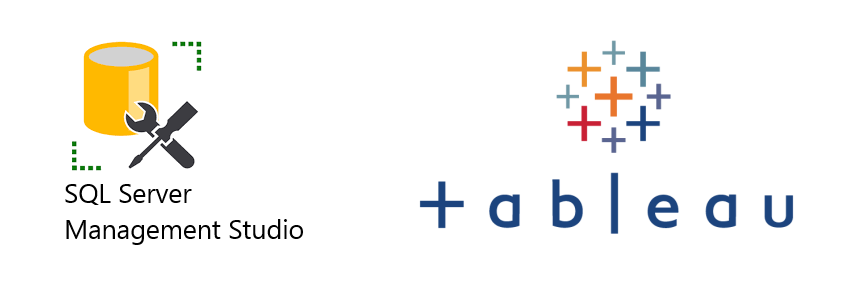
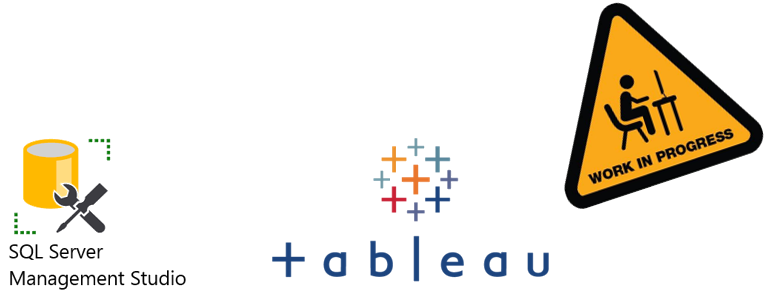
Add files via upload

diff --git a/index.html b/index.html
@@ -25,7 +25,7 @@
 						<li><a href="#about" class="active">About</a></li>
 						<li><a href="#skills">Skills</a></li>
 						<li><a href="#projects">Projects</a></li>
-						<li><a href="#contact">Contact</a></li>	
+						<li><a href="#contact">Contact</a></li>
 					</ul>
 				</nav>
 				<footer>
@@ -83,7 +83,7 @@
 								<div class="features">
 
 									<article>
-										<a href="Web scraping.html" class="image"><img src="images/python logo.png" alt="" /></a>
+										<a href="Web scraping.html" class="image" target="=_blank"><img src="images/python logo.png" alt="" /></a>
 										<div class="inner">
 											<h4><a href="Web scraping.html" target="_blank">Web scraping</a></h4>
 											<p>In this project I scrape data from the website of the romanian store SnowSports.</p>
@@ -99,17 +99,17 @@
 									</article>
 			
 									<article>
-										<a href="#" class="image"><img src="images/test.png" alt="" /></a>
+										<a href="https://public.tableau.com/authoring/1stDashboard_16983092076670/Dashboard1#1" class="image" target="_blank"><img src="images/pqtableau.png" alt="" /></a>
 										<div class="inner">
-											<h4>Tableau dashboards</h4>
-											<p>USA apartments price range. Project created in Tableau showing insights of a booking demands dataset from two hotels.</p>
+											<h4><a href="https://public.tableau.com/authoring/1stDashboard_16983092076670/Dashboard1#1" target="_blank">Surfacing knowledge and exploring relationships between variables.</a></h4>
+											<p>With this analysis I investigate the factors contributing to happiness across the world.</p>
 										</div>
 									</article>
 									<article>
-										<a href="#" class="image"><img src="images/powerq.png" alt="" /></a>
+										<a href="https://public.tableau.com/app/profile/gabriela.tomosoiu/viz/AirBnB_16873331909890/Dashboard1" class="image" target="_blank"><img src="images/SQLtableau.png" alt="" /></a>
 										<div class="inner">
-											<h4>Data cleaning in Power Query and data exploration in Power BI</h4>
-											<p>Power BI inshights.</p>
+											<h4><a href="https://public.tableau.com/app/profile/gabriela.tomosoiu/viz/AirBnB_16873331909890/Dashboard1" target="_blank">Unveiling market dynamics</a> </h4>
+											<p>In this project I analyse data and create an interactive dashboard to explore different aspects of the accomodation market.</p>
 										</div>
 									</article>
 								</div>

diff --git a/Exploring data and revealing insights.html b/Exploring data and revealing insights.html
@@ -25,7 +25,10 @@
 						<li><a href="#about" class="active">About</a></li>
 						<li><a href="#scope" class="active">Scope</a></li>
 						<li><a href="#steps">Steps</a></li>
-						<li><a href="#insights">Insights</a></li>									
+						<li><a href="#insights">Insights</a></li>
+						
+
+						</a></li>								
 					</ul>
 				</nav>
 			</section>
@@ -94,9 +97,10 @@
 												<p>5. Created a query to calculate the average closing prices for each industry sector at specific periods.</p>
 												<p>6. Used a CTE (Common Table Expression) to calculate the average price change for each investment type.</p>
 												<p>7. Cleaned and prepared the data for further visualization (handling missing values, correcting inconsistencies and transforming the data into a format suitable for Tableau).</p								</p>
-												<p>8. Tableau.</p>
-												<p>9. Tableau.</p>
-												<p>10. Tableau.</p>
+												<p>8. <a href="https://public.tableau.com/app/profile/gabriela.tomosoiu/viz/BVBmarketoverview-2022-2023/treemap?publish=yes" target="_blank">Tableau viz - BVB market overview</a></p>
+												<p>9. <a href="https://public.tableau.com/app/profile/gabriela.tomosoiu/viz/test5_17108713401150/industry#1" target="blank">Tableau viz - BVB sector industry ranking</p>
+												<p>10. <a href="https://public.tableau.com/app/profile/gabriela.tomosoiu/viz/test2_17108444008750/eurron" target="=_blank"> Tableau viz - EUR/RON exchange rate</a></p>
+												<a href="https://github.com/gabrielatomosoiu/2.SQL-Tableau/blob/main/BVB.sql" target="_blank" class="image small"><img src="images/wipicon.png" alt="" /></a>
 											</div>
 										</article>
 
@@ -112,9 +116,12 @@
 				  <br>
 				  <p>This project served a double win for me, as an active investor on the BVB market. It helped me understand the overall distribution of investments using data analysis skill and it gave me real-world knowledge I can directly use when making investment decisions.</p>
 					<p>Also, it allowed me to identify potential trends in industry performance over time and discover the most popular investment options within the data set.</p>
+				<h><p><a href="#" onclick="window.close()"><- Go back</a></p></h>
 				</div>
+				
 			  </section>
-		</div>			
+
+
 
 		<!-- Scripts -->
 			<script src="assets/js/jquery.min.js"></script>

diff --git a/Web scraping.html b/Web scraping.html
@@ -116,6 +116,8 @@
 				  <br>
 				  <p>This project provides insights into price trends for the snowboard gear I’m interested in.</p>
 					<p>By running this program over time, I can track price fluctuations and make informed purchase decisions.</p>
+					<br>
+					<h><p><a href="#" onclick="window.close()"><- Go back</a></p></h>
 				</div>
 			  </section>
 		</div>			
